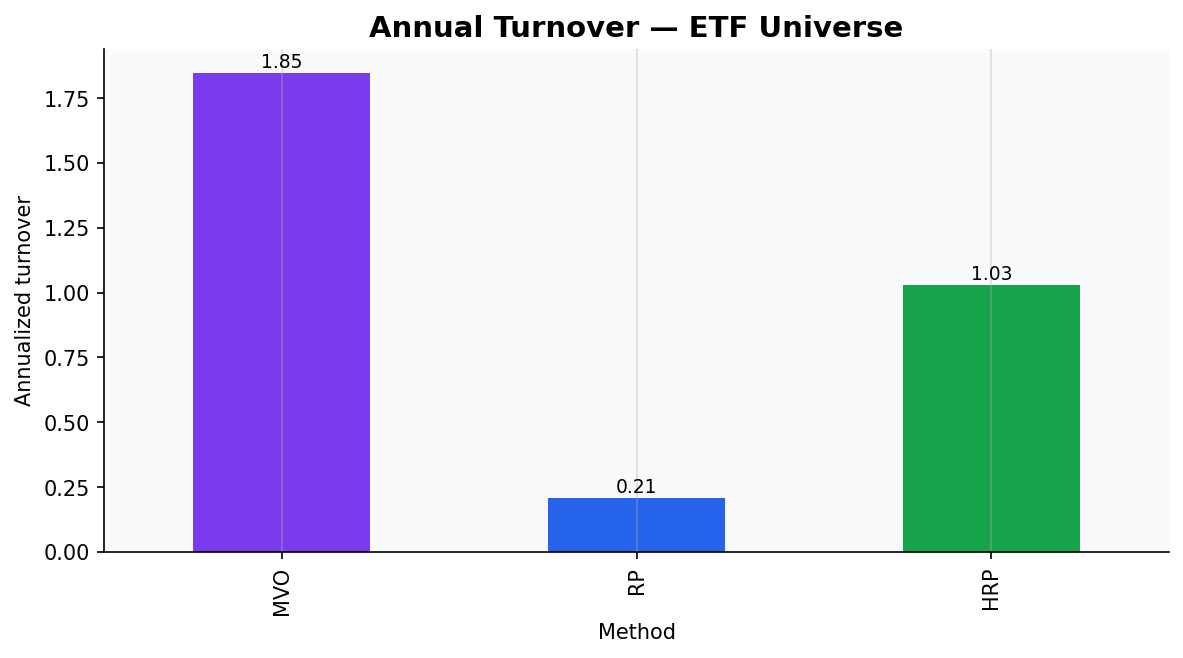
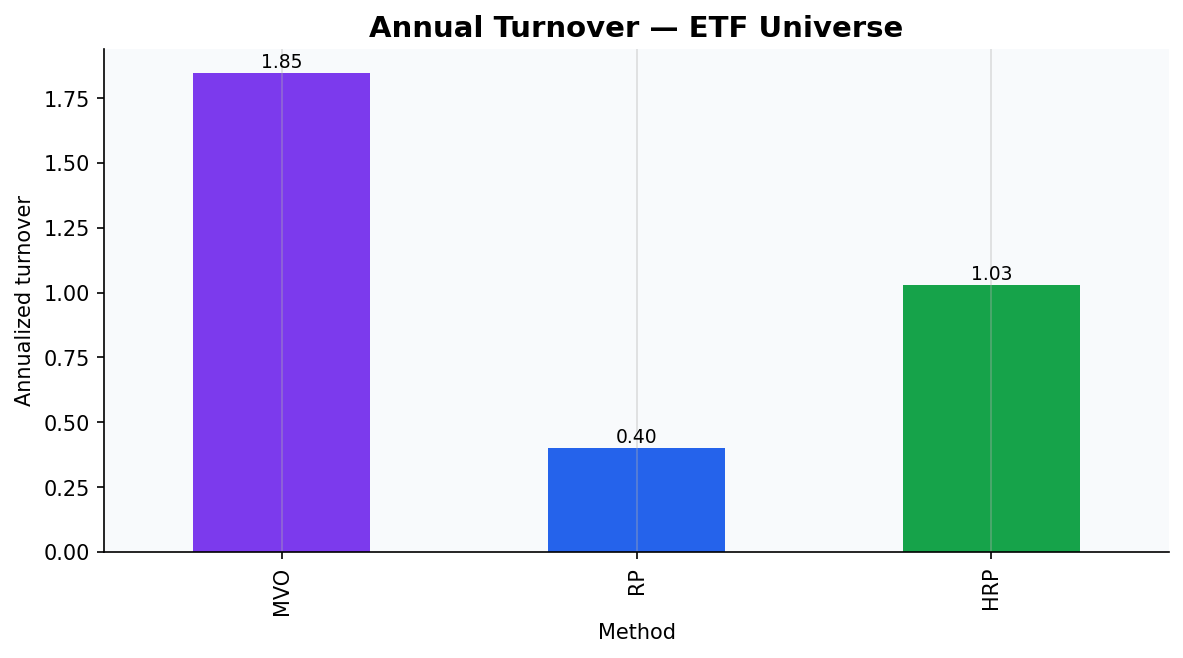
implementing True risk parity

Changed region(s): [[0.4565, 0.6383, 0.6391, 0.7599]]

diff --git a/core.py b/core.py
@@ -26,7 +26,7 @@ def compute_returns(prices):
 
 
 # -----------------------------
-# 2. SIGNAL CONSTRUCTION
+# 2. SIGNAL CONSTRUCTION (not used anymore)
 # -----------------------------
 def compute_momentum_signal(prices, lookback):
     return prices.pct_change(lookback)
@@ -84,12 +84,62 @@ def bootstrap_weights(train, weight_func, n_boot=50):
     return weights_df.mean()
 
 
-def risk_parity_weights(train_returns, vol_floor=1e-4):
-    vol = train_returns.std()
-    vol = vol.clip(lower=vol_floor)
+# def risk_parity_weights(train_returns, vol_floor=1e-4):
+#     vol = train_returns.std()
+#     vol = vol.clip(lower=vol_floor)
 
-    inv_vol = 1 / vol
-    return normalize_weights(inv_vol)
+#     inv_vol = 1 / vol
+#     return normalize_weights(inv_vol)
+
+
+def risk_parity_weights(train_returns, vol_floor=1e-6):
+
+    cov = train_returns.cov().values
+    n = cov.shape[0]
+
+    # --- Initial guess: equal weights ---
+    x0 = np.ones(n) / n
+
+    # --- Risk contribution function ---
+    def portfolio_variance(w):
+        return w @ cov @ w
+
+    def risk_contribution(w):
+        total_var = portfolio_variance(w)
+        marginal_contrib = cov @ w
+        return w * marginal_contrib / np.sqrt(total_var)
+
+    # --- Objective: minimize dispersion of risk contributions ---
+    def objective(w):
+        rc = risk_contribution(w)
+        return np.sum((rc - rc.mean())**2)
+
+    # --- Constraints ---
+    constraints = (
+        {"type": "eq", "fun": lambda w: np.sum(w) - 1},  # fully invested
+    )
+
+    bounds = tuple((0, 1) for _ in range(n))  # long-only
+
+    # --- Optimization ---
+    result = minimize(
+        objective,
+        x0,
+        method="SLSQP",
+        bounds=bounds,
+        constraints=constraints,
+        options={"disp": False, "ftol": 1e-10}
+    )
+
+    if not result.success:
+        # fallback: equal weights
+        weights = np.ones(n) / n
+    else:
+        weights = result.x
+
+    weights = pd.Series(weights, index=train_returns.columns)
+
+    return weights
 
 
 def hrp_weights(train_returns):

diff --git a/empirical_analysis.py b/empirical_analysis.py
@@ -495,24 +495,16 @@ def run_signal_validation(tickers, start_date, lookback, ma_window, asset_labels
     plot_bootstrap_stability(
         results_std, 
         results_boot, 
-        "ETF Universe", 
-        "etf_bootstrap_stability.png"
+        universe_name,
+        f"{file_prefix}_bootstrap_stability.png",
     )
 
-    plot_bootstrap_stability(
-        results_std, 
-        results_boot, 
-        "Crypto Universe", 
-        "crypto_bootstrap_stability.png"
-    )    
-    
     plot_bootstrap_turnover(
         results_std, 
         results_boot, 
-        "Crypto Universe", 
-        "crypto_bootstrap_turnover.png"
+        universe_name,
+        f"{file_prefix}_bootstrap_turnover.png"
     )
-
 
 # -----------------------------
 # 5. MAIN
